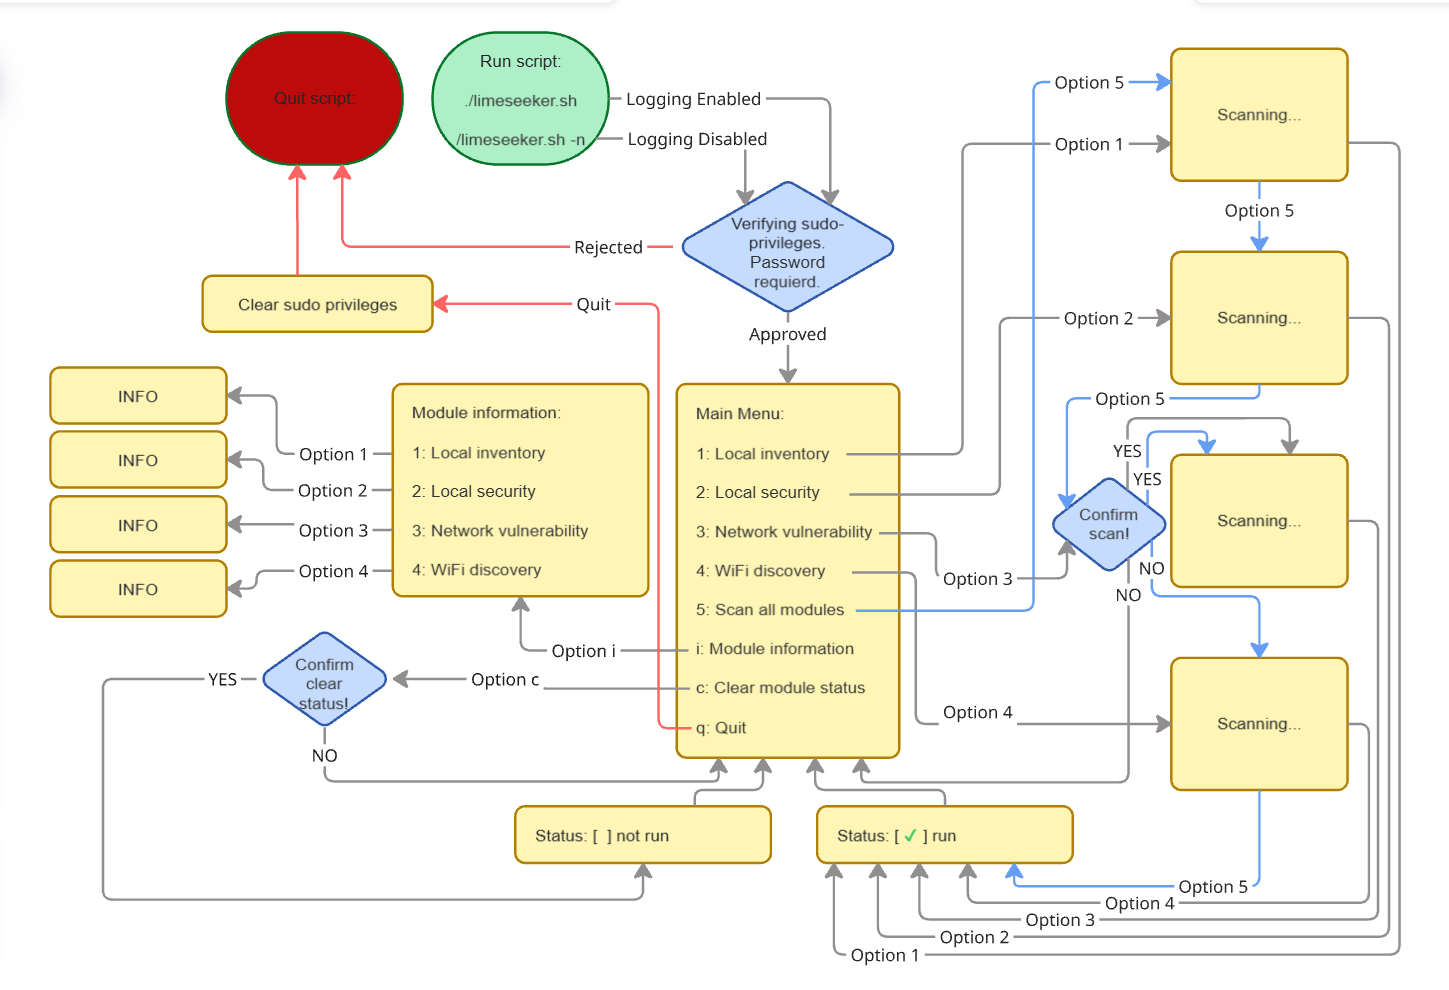
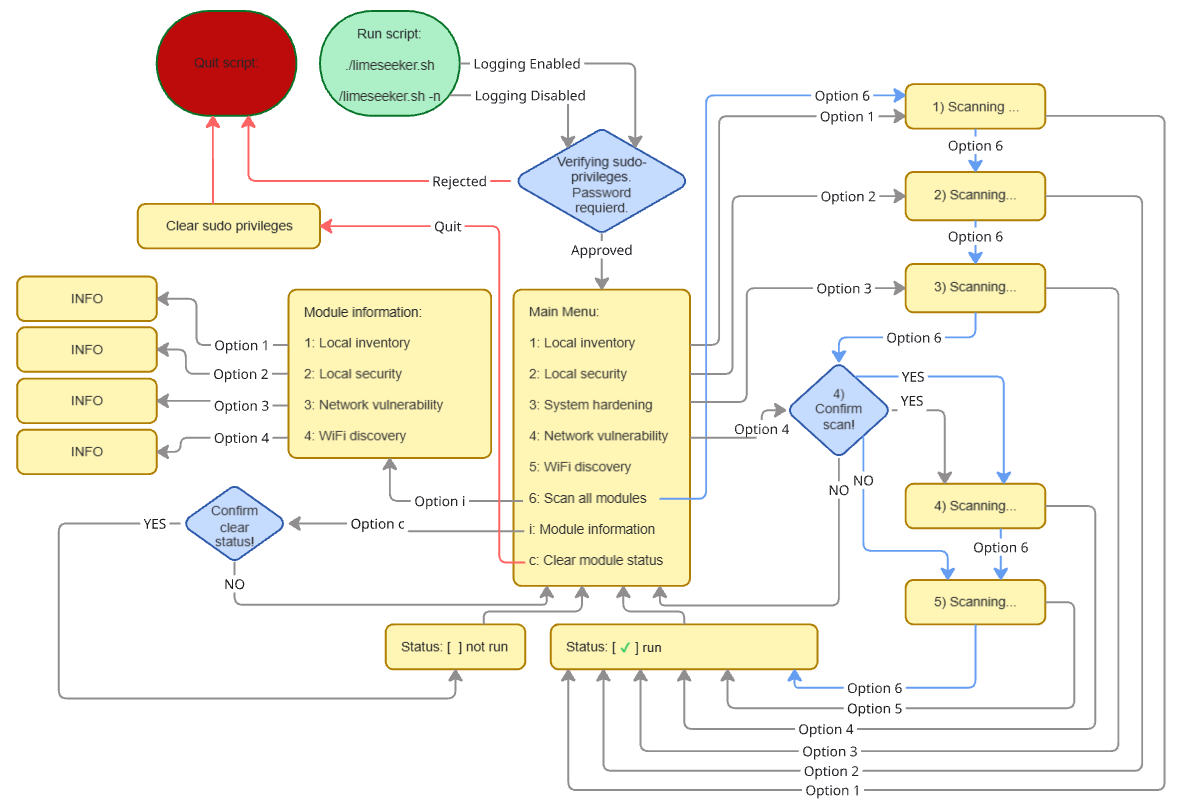
version 1.4.2 new module system_hardening

diff --git a/README.md b/README.md
@@ -1,5 +1,5 @@
 # LimeSeeker | Linux & Network Vulnerability Scanner 
-![Version](https://img.shields.io/badge/version-1.4.1-green)
+![Version](https://img.shields.io/badge/version-1.4.2-green)
 
 
 LimeSeeker är ett modulbaserat skript för rekognisering och identifiering av kritiska sårbarheter och föråldrade tjänster i Linux-system och nätverk.
@@ -40,6 +40,7 @@ LimeSeeker är utformat för att svara på frågan:
 │   ├── local_inventory.sh
 │   ├── local_security.sh
 │   ├── network_vulnerability.sh
+|   |-- system_hardening.sh
 │   └── wifi_discovery.sh
 └── reports/
 ```
@@ -73,7 +74,7 @@ Skriptet är uppbyggt av självständiga moduler och är terminalbaserat för Li
 *   **Shell:** Bash 4+
 *   **Rättigheter:** Sudo-behörighet krävs för vissa moduler.
 *   **Verktyg som används:**
-    *   `ip`, `ss`, `find`, `awk` (Standardverktyg)
+    *   `ip`, `ss`, `find`, `awk`, `ufw`, `firewalld` (Standardverktyg)
     *   [nmap](nmap.org) (för nätverksmoduler)
     *   [searchsploit](www.exploit-db.com) (för CVE-kontroller)
 
@@ -106,10 +107,11 @@ LimeSeeker kommer automatiskt be om sudo-lösenord.
 
 ## Moduler
 
-- **Local Inventory:** Rekognisering av lokala systemresurser.
-- **Local Security:** Kontroll av lokala sårbarheter och konfigurationer.
-- **Network Vulnerability:** Identifiering av brister i nätverkstjänster.
-- **WiFi Discovery:** Skanning av trådlösa nätverk.
+- **Local inventory:** Rekognisering av lokala systemresurser.
+- **Local security:** Kontrollerar lokala sårbarheter och konfigurationer.
+- **System hardening:** Minimera attackytan och att systemet följer best practice.
+- **Network vulnerability:** Identifiering av brister i nätverkstjänster.
+- **WiFi discovery:** Skanning av trådlösa nätverk.
 
 Mer detaljerad beskrivning över modulerna finns i  [modules.md](https://github.com/LimeMec/limeseeker/tree/main/docs/modules.md)
 
@@ -134,18 +136,31 @@ system och nätverk som användaren äger eller har uttryckligt tillstånd att t
 
 
 
-## Framtida utveckling 
+## Framtida uppdateringar 
 
 <b>Planerade förbättringar:</b>
+
 - Fördjupad analys av wifi-nätverk
 - spara historik för analys av wifi för att jämföra resultat
-- addera modul för system hardening
 - addera modul för container security
 -  Slå på/av loggning inne i meny
 -  Möjlighet att köra utan sudo i en avskalad miljö
 
 <b>Framtida funktioner:</b>
+
  -  Stöd för flera miljöer
+
+
+## Genomförda uppdateringar
+
+<b>version 1.4.2</b>
+
+- Ny modul: 'system_hardening'
+
+<b>version 1.4.1</b>
+
+- Tydligare loggning
+
  
 ---
 Trevligt att just du kikad in här!  
